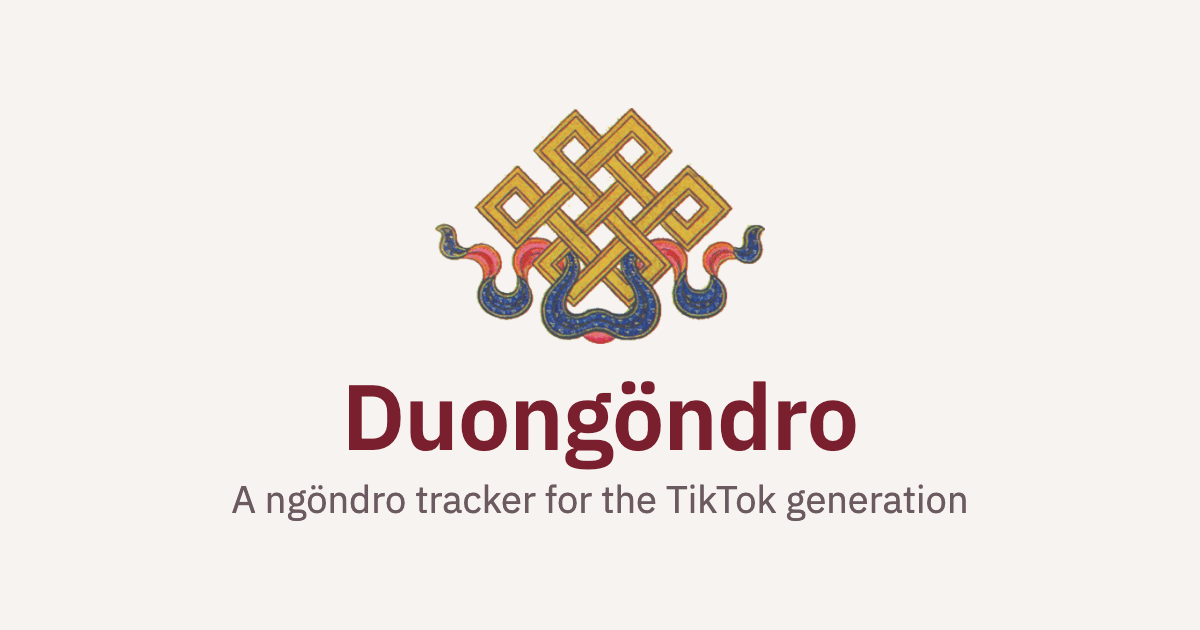
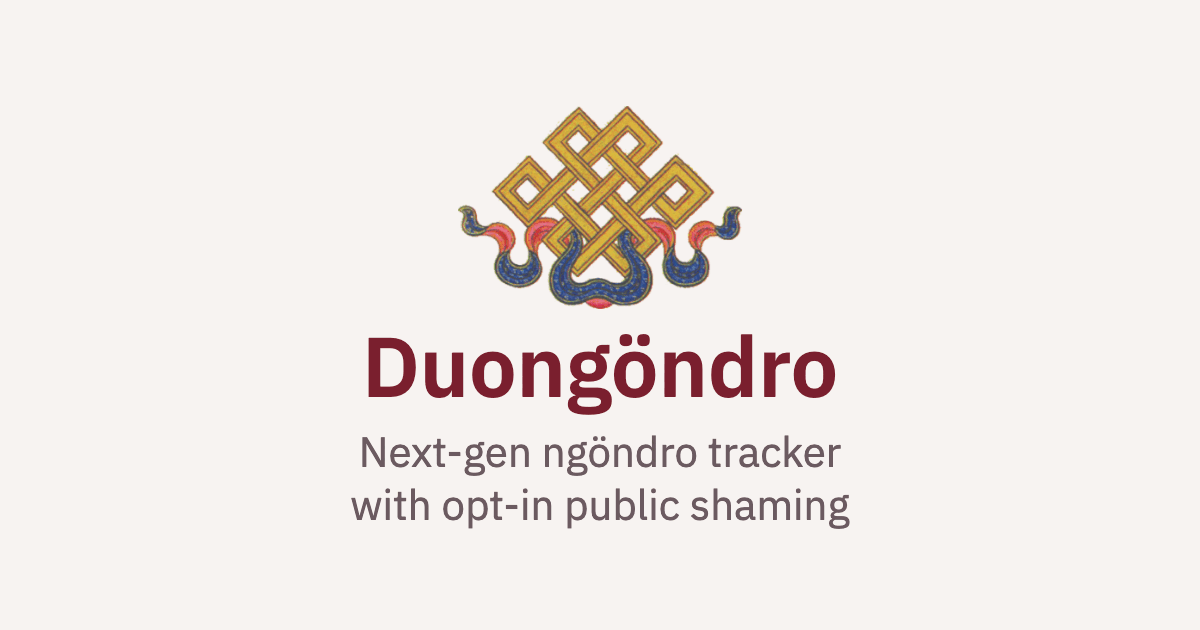
Update web/ to the landing build with the corrected privacy page and opt-in headline (landing f7d9fc5)
Review of this PR found the privacy page understated what the server keeps
in plain form; landing#6 corrects it (times written and synced, the phone's
own session times and deletions, recovery set-up, every sealed key, no
avatar). The build also carries landing#5, the "Next-gen ngöndro tracker
with opt-in public shaming" headline, its page titles and og.png.

Changed region(s): [[0.185, 0.181, 0.8325, 0.8444]]

diff --git a/web/index.html b/web/index.html
@@ -1,18 +1,32 @@
-<!DOCTYPE html><html lang="en"> <head><meta charset="utf-8"><meta name="viewport" content="width=device-width,initial-scale=1"><title>Duongöndro: a ngöndro tracker for the TikTok generation</title><meta name="description" content="A ngöndro tracker for the TikTok generation. Track your meditation practice together with your friends. End-to-end encrypted and fully open source."><meta name="color-scheme" content="light dark"><meta name="referrer" content="no-referrer"><meta property="og:type" content="website"><meta property="og:site_name" content="Duongöndro"><meta property="og:title" content="Duongöndro: a ngöndro tracker for the TikTok generation"><meta property="og:description" content="A ngöndro tracker for the TikTok generation"><meta property="og:url" content="https://duongondro.app/"><meta property="og:image" content="https://duongondro.app/og.png"><meta property="og:image:type" content="image/png"><meta property="og:image:width" content="1200"><meta property="og:image:height" content="630"><meta property="og:image:alt" content="The endless knot emblem, the name Duongöndro and the line “A ngöndro tracker for the TikTok generation”"><meta name="twitter:card" content="summary_large_image"><link rel="icon" href="/favicon-32.png" type="image/png" sizes="32x32"><link rel="apple-touch-icon" href="/apple-touch-icon.png"><link rel="stylesheet" href="/_assets/index.DEv3LqHc.css"></head> <body> <div class="mx-auto max-w-[46rem] px-4"> <!--[--><header class="py-5"><a class="flex items-center gap-3 font-bold text-xl leading-none text-ink no-underline" href="/"><img class="flex-none" src="/_assets/knot-56.CDDOBGr1.png" srcset="/_assets/knot-56.CDDOBGr1.png 1x, /_assets/knot-112.CXCU88NS.png 2x" width="56" height="40" alt=""/> <span>Duongöndro</span></a></header><!--]--> <main>  <section class="pt-6 pb-8"> <h1 class="mb-4 text-[clamp(2rem,7vw,3rem)] font-semibold leading-tight text-accent">A ngöndro tracker for the TikTok generation</h1> <p class="mb-7 text-xl leading-snug text-muted">Track your meditation practice together with your friends. End-to-end encrypted and fully open source.</p> <ul class="mb-2 flex flex-wrap items-start gap-3"> <li> <a class="btn" href="/download/android" data-download="android">Download for Android</a> <p class="note mt-2">Android 9 or newer · version 0.2<span data-download-count></span></p> </li> <!--[--><li><span class="block min-h-12 rounded-md border-2 border-dashed border-line px-5 py-3 font-semibold text-muted" role="note">Coming to the App Store<br/><span class="note">iOS is on TestFlight, by invitation only.</span></span></li><!--]--> </ul> <p class="note">
+<!DOCTYPE html><html lang="en"> <head><meta charset="utf-8"><meta name="viewport" content="width=device-width,initial-scale=1"><title>Duongöndro: next-gen ngöndro tracker with opt-in public shaming</title><meta name="description" content="Next-gen ngöndro tracker with opt-in public shaming. Track your meditation practice together with your friends. Private until you say otherwise, end-to-end encrypted and fully open source."><meta name="color-scheme" content="light dark"><meta name="referrer" content="no-referrer"><meta property="og:type" content="website"><meta property="og:site_name" content="Duongöndro"><meta property="og:title" content="Duongöndro: next-gen ngöndro tracker with opt-in public shaming"><meta property="og:description" content="Next-gen ngöndro tracker with opt-in public shaming"><meta property="og:url" content="https://duongondro.app/"><meta property="og:image" content="https://duongondro.app/og.png"><meta property="og:image:type" content="image/png"><meta property="og:image:width" content="1200"><meta property="og:image:height" content="630"><meta property="og:image:alt" content="The endless knot emblem, the name Duongöndro and the line “Next-gen ngöndro tracker with opt-in public shaming”"><meta name="twitter:card" content="summary_large_image"><link rel="icon" href="/favicon-32.png" type="image/png" sizes="32x32"><link rel="apple-touch-icon" href="/apple-touch-icon.png"><link rel="stylesheet" href="/_assets/index.DEv3LqHc.css"></head> <body> <div class="mx-auto max-w-[46rem] px-4"> <!--[--><header class="py-5"><a class="flex items-center gap-3 font-bold text-xl leading-none text-ink no-underline" href="/"><img class="flex-none" src="/_assets/knot-56.CDDOBGr1.png" srcset="/_assets/knot-56.CDDOBGr1.png 1x, /_assets/knot-112.CXCU88NS.png 2x" width="56" height="40" alt=""/> <span>Duongöndro</span></a></header><!--]--> <main>  <section class="pt-6 pb-8"> <h1 class="mb-4 text-[clamp(2rem,7vw,3rem)] font-semibold leading-tight text-accent">Next-gen ngöndro tracker with opt-in public shaming</h1> <p class="mb-7 text-xl leading-snug text-muted">Track your meditation practice together with your friends. End-to-end encrypted and fully open source.</p> <ul class="mb-2 flex flex-wrap items-start gap-3"> <li> <a class="btn" href="/download/android" data-download="android">Download for Android</a> <p class="note mt-2">Android 9 or newer · version 0.2<span data-download-count></span></p> </li> <!--[--><li><span class="block min-h-12 rounded-md border-2 border-dashed border-line px-5 py-3 font-semibold text-muted" role="note">Coming to the App Store<br/><span class="note">iOS is on TestFlight, by invitation only.</span></span></li><!--]--> </ul> <p class="note">
 The app needs no invitation: on your phone alone it does everything except friends. An online
       account, for friends and for sync between phones, needs an invitation from a member. The
       Android app is an APK from <a href="https://github.com/Duongondro/duongondro-android/releases">our GitHub
       releases</a>, not from Google Play yet.
-</p> </section> <section class="border-t border-line py-8" aria-labelledby="streaks"> <h2 id="streaks" class="mb-3 text-2xl font-semibold leading-tight">Friends see streaks. Nobody sees counts.</h2>  <p class="mb-3">
-A streak is the number of days in a row you practised. You choose, practice by practice,
-      whether friends can see it. Counts, rounds, totals and targets stay on your devices, sealed.
+</p> </section> <section class="border-t border-line py-8" aria-labelledby="optin"> <h2 id="optin" class="mb-3 text-2xl font-semibold leading-tight">What opt-in means</h2>  <p class="mb-3">
+The shaming is a joke about the genre. The part that is not a joke is that you switch it on
+      yourself, one practice at a time.
+</p> <ul class="prose-list"> <li> <strong>Out of the box the app is yours alone.</strong> No account, no sign-in. Nothing
+        leaves the phone.
+</li> <li> <strong>With friends, every streak still starts private.</strong> You switch a streak on per
+        practice. Until you do, a friend sees nothing about that practice.
+</li> <li> <strong>Counts, rounds, totals and targets are never shared.</strong> Not with friends, and
+        not readable by the server. A streak is a number of days.
+</li> <li> <strong>Done-today notes are switched on per friend.</strong> You hear that a friend has
+        practised only if you asked to, for that friend. There is no member directory, no feed and
+        no public profile, so there is no public to be shamed in front of.
+</li> </ul>  </section> <section class="border-t border-line py-8" aria-labelledby="streaks"> <h2 id="streaks" class="mb-3 text-2xl font-semibold leading-tight">Friends see streaks, if you let them. Nobody sees counts.</h2>  <p class="mb-3">
+A streak is the number of days in a row you practised. It is private until you publish it,
+      and you publish it practice by practice, to the friends you have accepted. Counts, rounds,
+      totals and targets stay on your devices, sealed.
 </p> <p class="mb-3">
 A session counts for the day it started, and the streak holds until midnight after the next
       day, in whichever time zone gives you more time. Travel does not break it.
-</p>  </section> <section class="border-t border-line py-8" aria-labelledby="nudges"> <h2 id="nudges" class="mb-3 text-2xl font-semibold leading-tight">Nudges from friends</h2>  <p class="mb-3">
-When a friend finishes a practice, you get a note. When you have not, they can poke you. That
-      is the whole social feature, and it is deliberately small. There is no member directory and
-      no feed.
+</p>  </section> <section class="border-t border-line py-8" aria-labelledby="nudges"> <h2 id="nudges" class="mb-3 text-2xl font-semibold leading-tight">Notes and nudges between friends</h2>  <p class="mb-3">
+For each friend you choose whether you want a note when they finish a practice. When a
+      friend has not practised yet, you can poke them, once a day. That is the whole
+      social feature, and it is deliberately small. There is no member directory, no feed and no
+      public profile.
 </p>  </section> <section class="border-t border-line py-8" aria-labelledby="invite"> <h2 id="invite" class="mb-3 text-2xl font-semibold leading-tight">Accounts by invitation</h2>  <p class="mb-3">
 Anyone can install the app and use it on their phone, with no invitation and no account.
       Online accounts are by invitation: a member shares an invite as a link or a QR code. It works for seven days. Opening it joins
@@ -24,5 +38,5 @@ Got a link but no app? <a href="/i/">The invite page</a> shows the code to paste
 </p>  </section> <section class="border-t border-line py-8" aria-labelledby="offline"> <h2 id="offline" class="mb-3 text-2xl font-semibold leading-tight">Works offline</h2>  <p class="mb-3">
 Every count is written to your phone first and synced later. A retreat with no signal loses
       nothing. You can also use the app on one phone only, with no account.
-</p>  </section> <section class="border-t border-line py-8" aria-labelledby="e2ee"> <h2 id="e2ee" class="mb-3 text-2xl font-semibold leading-tight">Encryption, in plain words</h2>  <div class="grid gap-3 sm:grid-cols-2"> <div class="rounded-md border border-line bg-card p-4 [&_p:last-child]:mb-0"> <h3 class="mb-1 text-[1.0625rem] font-bold">Sealed on your phone</h3>  <p>Sessions, counts, rounds, targets and notes are encrypted before they leave the device. The keys never leave your devices.</p>  </div> <div class="rounded-md border border-line bg-card p-4 [&_p:last-child]:mb-0"> <h3 class="mb-1 text-[1.0625rem] font-bold">The server never sees a count</h3>  <p>It stores sealed blobs it cannot open. It checks sizes and signatures and nothing else.</p>  </div> <div class="rounded-md border border-line bg-card p-4 [&_p:last-child]:mb-0"> <h3 class="mb-1 text-[1.0625rem] font-bold">What it does see</h3>  <p>Your account, display name and avatar, your friends, who invited whom, and the streaks you chose to publish. It also sees when you sync and roughly how much.</p>  </div> <div class="rounded-md border border-line bg-card p-4 [&_p:last-child]:mb-0"> <h3 class="mb-1 text-[1.0625rem] font-bold">No tracking</h3>  <p>No analytics, no trackers, no third-party fonts or scripts. This site makes no requests to anyone else.</p>  </div> </div> <p class="mt-3">Details are in the <a href="/privacy/">draft privacy policy</a>.</p>  </section> <section class="border-t border-line py-8" aria-labelledby="source"> <h2 id="source" class="mb-3 text-2xl font-semibold leading-tight">Open source</h2>  <p class="mb-3">You can read what the apps and the server do, and check the claims above against the code.</p> <ul class="mb-2 flex flex-wrap gap-3"> <li><a class="btn btn-ghost" href="https://github.com/Duongondro/duongondro-ios">iOS app on GitHub</a></li> <li><a class="btn btn-ghost" href="https://github.com/Duongondro/duongondro-android">Android app on GitHub</a></li> <li><a class="btn btn-ghost" href="https://github.com/Duongondro/duongondro-api">Server on GitHub</a></li> </ul>  </section> <script type="module" src="/_assets/index.astro_astro_type_script_index_0_lang.eUalLvJL.js"></script>  </main> <!--[--><footer class="mt-4 border-t border-line pt-6 pb-10 text-[0.9375rem] text-muted"><ul class="mb-3 flex flex-wrap gap-x-5 gap-y-1.5"><!--[--><li><a href="/privacy/">Privacy</a></li><li><a href="https://github.com/Duongondro/duongondro-ios">Source: iOS app</a></li><li><a href="https://github.com/Duongondro/duongondro-android">Source: Android app</a></li><li><a href="https://github.com/Duongondro/duongondro-api">Source: server</a></li><!--]--> <li>Contact: [CONTACT EMAIL]</li></ul> <p class="mb-2">Built by Claude Opus 5.5, Anthropic's AI model: the apps, the server and this website.
+</p>  </section> <section class="border-t border-line py-8" aria-labelledby="e2ee"> <h2 id="e2ee" class="mb-3 text-2xl font-semibold leading-tight">Encryption, in plain words</h2>  <div class="grid gap-3 sm:grid-cols-2"> <div class="rounded-md border border-line bg-card p-4 [&_p:last-child]:mb-0"> <h3 class="mb-1 text-[1.0625rem] font-bold">Sealed on your phone</h3>  <p>Sessions, counts, rounds, targets and notes are encrypted before they leave the device. The keys never leave your devices.</p>  </div> <div class="rounded-md border border-line bg-card p-4 [&_p:last-child]:mb-0"> <h3 class="mb-1 text-[1.0625rem] font-bold">The server never sees a count</h3>  <p>It stores sealed blobs it cannot open. It checks sizes and signatures and nothing else.</p>  </div> <div class="rounded-md border border-line bg-card p-4 [&_p:last-child]:mb-0"> <h3 class="mb-1 text-[1.0625rem] font-bold">What it does see</h3>  <p>Your account, your display name, your friends, who invited whom, and the streaks you chose to publish. It also sees when each session was logged and synced, by your phone's clock and by its own, and how large each sealed blob is.</p>  </div> <div class="rounded-md border border-line bg-card p-4 [&_p:last-child]:mb-0"> <h3 class="mb-1 text-[1.0625rem] font-bold">No tracking</h3>  <p>No analytics, no trackers, no third-party fonts or scripts. This site makes no requests to anyone else.</p>  </div> </div> <p class="mt-3">Details are in the <a href="/privacy/">draft privacy policy</a>.</p>  </section> <section class="border-t border-line py-8" aria-labelledby="source"> <h2 id="source" class="mb-3 text-2xl font-semibold leading-tight">Open source</h2>  <p class="mb-3">You can read what the apps and the server do, and check the claims above against the code.</p> <ul class="mb-2 flex flex-wrap gap-3"> <li><a class="btn btn-ghost" href="https://github.com/Duongondro/duongondro-ios">iOS app on GitHub</a></li> <li><a class="btn btn-ghost" href="https://github.com/Duongondro/duongondro-android">Android app on GitHub</a></li> <li><a class="btn btn-ghost" href="https://github.com/Duongondro/duongondro-api">Server on GitHub</a></li> </ul>  </section> <script type="module" src="/_assets/index.astro_astro_type_script_index_0_lang.eUalLvJL.js"></script>  </main> <!--[--><footer class="mt-4 border-t border-line pt-6 pb-10 text-[0.9375rem] text-muted"><ul class="mb-3 flex flex-wrap gap-x-5 gap-y-1.5"><!--[--><li><a href="/privacy/">Privacy</a></li><li><a href="https://github.com/Duongondro/duongondro-ios">Source: iOS app</a></li><li><a href="https://github.com/Duongondro/duongondro-android">Source: Android app</a></li><li><a href="https://github.com/Duongondro/duongondro-api">Source: server</a></li><!--]--> <li>Contact: [CONTACT EMAIL]</li></ul> <p class="mb-2">Built by Claude Opus 5.5, Anthropic's AI model: the apps, the server and this website.
     Maintained by Karol Moroz.</p> <p>Not affiliated with any organisation. This website is licensed under AGPL-3.0.</p></footer><!--]--> </div> </body></html>

diff --git a/web/privacy/index.html b/web/privacy/index.html
@@ -1,4 +1,4 @@
-<!DOCTYPE html><html lang="en"> <head><meta charset="utf-8"><meta name="viewport" content="width=device-width,initial-scale=1"><title>Privacy policy (draft) | Duongöndro</title><meta name="description" content="Draft privacy policy for Duongöndro. Not yet in force."><meta name="color-scheme" content="light dark"><meta name="referrer" content="no-referrer"><meta property="og:type" content="website"><meta property="og:site_name" content="Duongöndro"><meta property="og:title" content="Privacy policy (draft) | Duongöndro"><meta property="og:description" content="A ngöndro tracker for the TikTok generation"><meta property="og:url" content="https://duongondro.app/privacy/"><meta property="og:image" content="https://duongondro.app/og.png"><meta property="og:image:type" content="image/png"><meta property="og:image:width" content="1200"><meta property="og:image:height" content="630"><meta property="og:image:alt" content="The endless knot emblem, the name Duongöndro and the line “A ngöndro tracker for the TikTok generation”"><meta name="twitter:card" content="summary_large_image"><link rel="icon" href="/favicon-32.png" type="image/png" sizes="32x32"><link rel="apple-touch-icon" href="/apple-touch-icon.png"><link rel="stylesheet" href="/_assets/index.DEv3LqHc.css"></head> <body> <div class="mx-auto max-w-[46rem] px-4"> <!--[--><header class="py-5"><a class="flex items-center gap-3 font-bold text-xl leading-none text-ink no-underline" href="/"><img class="flex-none" src="/_assets/knot-56.CDDOBGr1.png" srcset="/_assets/knot-56.CDDOBGr1.png 1x, /_assets/knot-112.CXCU88NS.png 2x" width="56" height="40" alt=""/> <span>Duongöndro</span></a></header><!--]--> <main>  <section class="pt-6 pb-8"> <p class="mb-3"> <span class="inline-block rounded-sm border border-gold px-2 py-0.5 text-sm font-semibold text-gold-text">Draft — not yet in force</span> </p> <h1 class="mb-4 text-[clamp(2rem,7vw,3rem)] font-semibold leading-tight text-accent">Privacy policy</h1> <p class="mb-3 text-xl leading-snug">
+<!DOCTYPE html><html lang="en"> <head><meta charset="utf-8"><meta name="viewport" content="width=device-width,initial-scale=1"><title>Privacy policy (draft) | Duongöndro</title><meta name="description" content="Draft privacy policy for Duongöndro. Not yet in force."><meta name="color-scheme" content="light dark"><meta name="referrer" content="no-referrer"><meta property="og:type" content="website"><meta property="og:site_name" content="Duongöndro"><meta property="og:title" content="Privacy policy (draft) | Duongöndro"><meta property="og:description" content="Next-gen ngöndro tracker with opt-in public shaming"><meta property="og:url" content="https://duongondro.app/privacy/"><meta property="og:image" content="https://duongondro.app/og.png"><meta property="og:image:type" content="image/png"><meta property="og:image:width" content="1200"><meta property="og:image:height" content="630"><meta property="og:image:alt" content="The endless knot emblem, the name Duongöndro and the line “Next-gen ngöndro tracker with opt-in public shaming”"><meta name="twitter:card" content="summary_large_image"><link rel="icon" href="/favicon-32.png" type="image/png" sizes="32x32"><link rel="apple-touch-icon" href="/apple-touch-icon.png"><link rel="stylesheet" href="/_assets/index.DEv3LqHc.css"></head> <body> <div class="mx-auto max-w-[46rem] px-4"> <!--[--><header class="py-5"><a class="flex items-center gap-3 font-bold text-xl leading-none text-ink no-underline" href="/"><img class="flex-none" src="/_assets/knot-56.CDDOBGr1.png" srcset="/_assets/knot-56.CDDOBGr1.png 1x, /_assets/knot-112.CXCU88NS.png 2x" width="56" height="40" alt=""/> <span>Duongöndro</span></a></header><!--]--> <main>  <section class="pt-6 pb-8"> <p class="mb-3"> <span class="inline-block rounded-sm border border-gold px-2 py-0.5 text-sm font-semibold text-gold-text">Draft — not yet in force</span> </p> <h1 class="mb-4 text-[clamp(2rem,7vw,3rem)] font-semibold leading-tight text-accent">Privacy policy</h1> <p class="mb-3 text-xl leading-snug">
 This draft says what Duongöndro stores, where, and why. It has not been reviewed by a lawyer
       and does not apply until it is published without this banner.
 </p> <p class="note">Controller: [CONTROLLER NAME AND ADDRESS]. Contact: [CONTACT EMAIL].</p> </section> <section class="border-t border-line py-8" aria-labelledby="sealed"> <h2 id="sealed" class="mb-3 text-2xl font-semibold leading-tight">What is end-to-end encrypted</h2>  <p class="mb-3">These are sealed on your device before they are uploaded. The server stores them and cannot read them:</p> <ul class="prose-list"> <li>practice sessions, including the day, the duration and your notes</li> <li>counts, rounds and totals</li> <li>targets</li> <li>imported streak seeds</li> </ul> <p class="mb-3">
@@ -8,11 +8,11 @@ The keys that open them stay on your devices. The server never receives a plaint
 The server has to read these to do its job, for example to show your name to your friends
       or to send a notification. It keeps them encrypted in its database, with a key held outside
       the database, so a copy of the database or a backup does not reveal them:
-</p> <ul class="prose-list"> <li>your display name and avatar, and your grammatical gender if you give it</li> <li>your e-mail address, if you sign in with one; an account with only a passkey has none</li> <li>your username, if you chose one; it names your passkey and friends do not see it</li> <li>your streaks, only for practices where you chose to publish them</li> <li>the public keys of your devices</li> <li>push notification tokens</li> <li>the text of any report you send</li> </ul> <p class="mb-3">
+</p> <ul class="prose-list"> <li>your display name, and your grammatical gender if you give it</li> <li>your e-mail address, if you sign in with one; an account with only a passkey has none</li> <li>your username, if you chose one; it names your passkey and friends do not see it</li> <li>the Apple or Google account your sign-in is linked to</li> <li>your streaks, only for practices where you chose to publish them</li> <li>the public keys of your account, your devices and your passkeys</li> <li>push notification tokens</li> <li>the text of any report you send</li> </ul> <p class="mb-3">
 Unlike your practice data, these can be read by the running server while it works with them.
-</p>  </section> <section class="border-t border-line py-8" aria-labelledby="plain"> <h2 id="plain" class="mb-3 text-2xl font-semibold leading-tight">What the server stores in plain form</h2>  <ul class="prose-list"> <li>that your account exists, as a random number</li> <li>which accounts are friends, and who invited, blocked, poked or reported whom, as links between those numbers</li> <li>which kinds of sign-in, notification service and device key storage you use, for example a passkey on an Android phone</li> <li>for a streak you publish, when it runs out, so the server can remind you in time, and how many times it has been updated</li> <li>when you upload, and how large each sealed blob is</li> </ul> <p class="mb-3">
-The last item is a real limit. Upload times and sizes can suggest when you practise, even for
-      a private streak.
+</p>  </section> <section class="border-t border-line py-8" aria-labelledby="plain"> <h2 id="plain" class="mb-3 text-2xl font-semibold leading-tight">What the server stores in plain form</h2>  <ul class="prose-list"> <li>that your account exists, as a random number</li> <li>which accounts are friends, and who invited, blocked, poked or reported whom, as links between those numbers</li> <li>for each friend, whether you asked to hear when they practise</li> <li>whether and when you set up a recovery key</li> <li>which kinds of sign-in, notification service and device key storage you use, for example a passkey on an Android phone</li> <li>for a streak you publish, when it runs out, so the server can remind you in time, and how many times it has been updated</li> <li>when each thing was written and last changed, and how large each sealed blob is; for a practice session, also when your phone logged it and last changed or deleted it, by the phone's clock, even if it synced later</li> </ul> <p class="mb-3">
+The last item is a real limit. These times and sizes can show when you practise, even for a
+      private streak.
 </p> <p class="mb-3">Cover photos for practices never leave your phone.</p>  </section> <section class="border-t border-line py-8" aria-labelledby="belief"> <h2 id="belief" class="mb-3 text-2xl font-semibold leading-tight">Religious belief and consent</h2>  <p class="mb-3">
 Being a member of a Buddhist practice app says something about your religious belief. Under
       Article 9 of the GDPR that is special-category data. We ask for your explicit consent before

diff --git a/web/i/index.html b/web/i/index.html
@@ -1,4 +1,4 @@
-<!DOCTYPE html><html lang="en"> <head><meta charset="utf-8"><meta name="viewport" content="width=device-width,initial-scale=1"><title>You have been invited to Duongöndro | Duongöndro</title><meta name="description" content="Open this link in the Duongöndro app, or copy the code from this page."><meta name="color-scheme" content="light dark"><meta name="referrer" content="no-referrer"><meta name="robots" content="noindex,nofollow"><meta property="og:type" content="website"><meta property="og:site_name" content="Duongöndro"><meta property="og:title" content="You have been invited to Duongöndro | Duongöndro"><meta property="og:description" content="A ngöndro tracker for the TikTok generation"><meta property="og:url" content="https://duongondro.app/i/"><meta property="og:image" content="https://duongondro.app/og.png"><meta property="og:image:type" content="image/png"><meta property="og:image:width" content="1200"><meta property="og:image:height" content="630"><meta property="og:image:alt" content="The endless knot emblem, the name Duongöndro and the line “A ngöndro tracker for the TikTok generation”"><meta name="twitter:card" content="summary_large_image"><link rel="icon" href="/favicon-32.png" type="image/png" sizes="32x32"><link rel="apple-touch-icon" href="/apple-touch-icon.png"><link rel="stylesheet" href="/_assets/index.DEv3LqHc.css"></head> <body> <div class="mx-auto max-w-[46rem] px-4"> <!--[--><header class="py-5"><a class="flex items-center gap-3 font-bold text-xl leading-none text-ink no-underline" href="/"><img class="flex-none" src="/_assets/knot-56.CDDOBGr1.png" srcset="/_assets/knot-56.CDDOBGr1.png 1x, /_assets/knot-112.CXCU88NS.png 2x" width="56" height="40" alt=""/> <span>Duongöndro</span></a></header><!--]--> <main>  <!--[--><section class="pt-6 pb-8" data-link-kind="invite"><h1 class="mb-4 text-[clamp(2rem,7vw,3rem)] font-semibold leading-tight text-accent">You have been invited to Duongöndro</h1> <p class="mb-1 text-xl leading-snug">Duongöndro is a practice tracker for friends. This is your invite code.</p> <noscript><p class="warn">This page needs JavaScript to read the code from the link. Without it, copy the part of the
+<!DOCTYPE html><html lang="en"> <head><meta charset="utf-8"><meta name="viewport" content="width=device-width,initial-scale=1"><title>You have been invited to Duongöndro | Duongöndro</title><meta name="description" content="Open this link in the Duongöndro app, or copy the code from this page."><meta name="color-scheme" content="light dark"><meta name="referrer" content="no-referrer"><meta name="robots" content="noindex,nofollow"><meta property="og:type" content="website"><meta property="og:site_name" content="Duongöndro"><meta property="og:title" content="You have been invited to Duongöndro | Duongöndro"><meta property="og:description" content="Next-gen ngöndro tracker with opt-in public shaming"><meta property="og:url" content="https://duongondro.app/i/"><meta property="og:image" content="https://duongondro.app/og.png"><meta property="og:image:type" content="image/png"><meta property="og:image:width" content="1200"><meta property="og:image:height" content="630"><meta property="og:image:alt" content="The endless knot emblem, the name Duongöndro and the line “Next-gen ngöndro tracker with opt-in public shaming”"><meta name="twitter:card" content="summary_large_image"><link rel="icon" href="/favicon-32.png" type="image/png" sizes="32x32"><link rel="apple-touch-icon" href="/apple-touch-icon.png"><link rel="stylesheet" href="/_assets/index.DEv3LqHc.css"></head> <body> <div class="mx-auto max-w-[46rem] px-4"> <!--[--><header class="py-5"><a class="flex items-center gap-3 font-bold text-xl leading-none text-ink no-underline" href="/"><img class="flex-none" src="/_assets/knot-56.CDDOBGr1.png" srcset="/_assets/knot-56.CDDOBGr1.png 1x, /_assets/knot-112.CXCU88NS.png 2x" width="56" height="40" alt=""/> <span>Duongöndro</span></a></header><!--]--> <main>  <!--[--><section class="pt-6 pb-8" data-link-kind="invite"><h1 class="mb-4 text-[clamp(2rem,7vw,3rem)] font-semibold leading-tight text-accent">You have been invited to Duongöndro</h1> <p class="mb-1 text-xl leading-snug">Duongöndro is a practice tracker for friends. This is your invite code.</p> <noscript><p class="warn">This page needs JavaScript to read the code from the link. Without it, copy the part of the
       address after <b>/i/</b>, replacing the <b>#</b> with a dash.</p></noscript> <div id="ok" hidden=""><code id="code" tabindex="0" class="my-4 block select-all break-all rounded-md border-2 border-accent bg-card px-4 py-5 font-mono text-[clamp(1.25rem,6.2vw,1.9rem)] font-semibold leading-snug tracking-wide"></code> <p class="mb-3"><button class="btn" type="button" id="copy">Copy the code</button></p> <p id="status" class="mb-3 min-h-[1.6em] font-semibold text-gold-text" role="status" aria-live="polite"></p> <h2 class="mb-3 text-2xl font-semibold leading-tight">What to do</h2> <ol class="steps"><li>Install Duongöndro: <a href="/download/android">download it for Android</a>. On iPhone it is on TestFlight, by invitation only.</li> <li>Open it and choose Get started. After the questions about your practice, choose <b>Make an online account</b>.</li> <li>Paste the code.</li></ol> <p class="mb-3">Invite links expire after 7 days. If it no longer works, ask the sender for a new one.</p> <p class="note">This code is in the part of the address after the #. Your browser does not send that part to
       the server, and this page does not either.</p></div> <div id="bad" hidden=""><p class="warn"><b>This link is incomplete.</b> It should look like <code>duongondro.app/i/7K2MQ9XA#H4N8R2CJ6TPW3ZQF</code>. Some messaging apps cut off
       everything after the #. Ask the sender for the link again, or for the code itself.</p> <p>If you were given a code, install the app, choose <b>Make an online account</b> when it offers one and paste it there.</p></div></section><!--]--> <script type="module" src="/_assets/index.astro_astro_type_script_index_0_lang.BNAiQPdN.js"></script>  </main> <!--[--><footer class="mt-4 border-t border-line pt-6 pb-10 text-[0.9375rem] text-muted"><ul class="mb-3 flex flex-wrap gap-x-5 gap-y-1.5"><!--[--><li><a href="/privacy/">Privacy</a></li><li><a href="https://github.com/Duongondro/duongondro-ios">Source: iOS app</a></li><li><a href="https://github.com/Duongondro/duongondro-android">Source: Android app</a></li><li><a href="https://github.com/Duongondro/duongondro-api">Source: server</a></li><!--]--> <li>Contact: [CONTACT EMAIL]</li></ul> <p class="mb-2">Built by Claude Opus 5.5, Anthropic's AI model: the apps, the server and this website.

diff --git a/web/f/index.html b/web/f/index.html
@@ -1,4 +1,4 @@
-<!DOCTYPE html><html lang="en"> <head><meta charset="utf-8"><meta name="viewport" content="width=device-width,initial-scale=1"><title>Add a friend on Duongöndro | Duongöndro</title><meta name="description" content="Open this link in the Duongöndro app, or copy the code from this page."><meta name="color-scheme" content="light dark"><meta name="referrer" content="no-referrer"><meta name="robots" content="noindex,nofollow"><meta property="og:type" content="website"><meta property="og:site_name" content="Duongöndro"><meta property="og:title" content="Add a friend on Duongöndro | Duongöndro"><meta property="og:description" content="A ngöndro tracker for the TikTok generation"><meta property="og:url" content="https://duongondro.app/f/"><meta property="og:image" content="https://duongondro.app/og.png"><meta property="og:image:type" content="image/png"><meta property="og:image:width" content="1200"><meta property="og:image:height" content="630"><meta property="og:image:alt" content="The endless knot emblem, the name Duongöndro and the line “A ngöndro tracker for the TikTok generation”"><meta name="twitter:card" content="summary_large_image"><link rel="icon" href="/favicon-32.png" type="image/png" sizes="32x32"><link rel="apple-touch-icon" href="/apple-touch-icon.png"><link rel="stylesheet" href="/_assets/index.DEv3LqHc.css"></head> <body> <div class="mx-auto max-w-[46rem] px-4"> <!--[--><header class="py-5"><a class="flex items-center gap-3 font-bold text-xl leading-none text-ink no-underline" href="/"><img class="flex-none" src="/_assets/knot-56.CDDOBGr1.png" srcset="/_assets/knot-56.CDDOBGr1.png 1x, /_assets/knot-112.CXCU88NS.png 2x" width="56" height="40" alt=""/> <span>Duongöndro</span></a></header><!--]--> <main>  <!--[--><section class="pt-6 pb-8" data-link-kind="friend"><h1 class="mb-4 text-[clamp(2rem,7vw,3rem)] font-semibold leading-tight text-accent">Add a friend on Duongöndro</h1> <p class="mb-1 text-xl leading-snug">Someone wants to add you as a friend. This is their add-friend code. You need the app installed, and an account in it.</p> <noscript><p class="warn">This page needs JavaScript to read the code from the link. Without it, copy the part of the
+<!DOCTYPE html><html lang="en"> <head><meta charset="utf-8"><meta name="viewport" content="width=device-width,initial-scale=1"><title>Add a friend on Duongöndro | Duongöndro</title><meta name="description" content="Open this link in the Duongöndro app, or copy the code from this page."><meta name="color-scheme" content="light dark"><meta name="referrer" content="no-referrer"><meta name="robots" content="noindex,nofollow"><meta property="og:type" content="website"><meta property="og:site_name" content="Duongöndro"><meta property="og:title" content="Add a friend on Duongöndro | Duongöndro"><meta property="og:description" content="Next-gen ngöndro tracker with opt-in public shaming"><meta property="og:url" content="https://duongondro.app/f/"><meta property="og:image" content="https://duongondro.app/og.png"><meta property="og:image:type" content="image/png"><meta property="og:image:width" content="1200"><meta property="og:image:height" content="630"><meta property="og:image:alt" content="The endless knot emblem, the name Duongöndro and the line “Next-gen ngöndro tracker with opt-in public shaming”"><meta name="twitter:card" content="summary_large_image"><link rel="icon" href="/favicon-32.png" type="image/png" sizes="32x32"><link rel="apple-touch-icon" href="/apple-touch-icon.png"><link rel="stylesheet" href="/_assets/index.DEv3LqHc.css"></head> <body> <div class="mx-auto max-w-[46rem] px-4"> <!--[--><header class="py-5"><a class="flex items-center gap-3 font-bold text-xl leading-none text-ink no-underline" href="/"><img class="flex-none" src="/_assets/knot-56.CDDOBGr1.png" srcset="/_assets/knot-56.CDDOBGr1.png 1x, /_assets/knot-112.CXCU88NS.png 2x" width="56" height="40" alt=""/> <span>Duongöndro</span></a></header><!--]--> <main>  <!--[--><section class="pt-6 pb-8" data-link-kind="friend"><h1 class="mb-4 text-[clamp(2rem,7vw,3rem)] font-semibold leading-tight text-accent">Add a friend on Duongöndro</h1> <p class="mb-1 text-xl leading-snug">Someone wants to add you as a friend. This is their add-friend code. You need the app installed, and an account in it.</p> <noscript><p class="warn">This page needs JavaScript to read the code from the link. Without it, copy the part of the
       address after <b>/f/</b>, replacing the <b>#</b> with a dash.</p></noscript> <div id="ok" hidden=""><code id="code" tabindex="0" class="my-4 block select-all break-all rounded-md border-2 border-accent bg-card px-4 py-5 font-mono text-[clamp(1.25rem,6.2vw,1.9rem)] font-semibold leading-snug tracking-wide"></code> <p class="mb-3"><button class="btn" type="button" id="copy">Copy the code</button></p> <p id="status" class="mb-3 min-h-[1.6em] font-semibold text-gold-text" role="status" aria-live="polite"></p> <h2 class="mb-3 text-2xl font-semibold leading-tight">What to do</h2> <ol class="steps"><li>Install Duongöndro: <a href="/download/android">download it for Android</a>. On iPhone it is on TestFlight, by invitation only.</li> <li>Open it and choose <b>Add friend</b>.</li> <li>Paste the code.</li></ol> <p class="mb-3">Add-friend links expire after 10 minutes. If it no longer works, ask your friend to show a new one.</p> <p class="note">This code is in the part of the address after the #. Your browser does not send that part to
       the server, and this page does not either.</p></div> <div id="bad" hidden=""><p class="warn"><b>This link is incomplete.</b> It should look like <code>duongondro.app/f/7K2MQ9XA#H4N8R2CJ6TPW3ZQF</code>. Some messaging apps cut off
       everything after the #. Ask the sender for the link again, or for the code itself.</p> <p>If you were given a code, install the app, choose <b>Add friend</b> when it offers one and paste it there.</p></div></section><!--]--> <script type="module" src="/_assets/index.astro_astro_type_script_index_0_lang.DKZGsVGn.js"></script>  </main> <!--[--><footer class="mt-4 border-t border-line pt-6 pb-10 text-[0.9375rem] text-muted"><ul class="mb-3 flex flex-wrap gap-x-5 gap-y-1.5"><!--[--><li><a href="/privacy/">Privacy</a></li><li><a href="https://github.com/Duongondro/duongondro-ios">Source: iOS app</a></li><li><a href="https://github.com/Duongondro/duongondro-android">Source: Android app</a></li><li><a href="https://github.com/Duongondro/duongondro-api">Source: server</a></li><!--]--> <li>Contact: [CONTACT EMAIL]</li></ul> <p class="mb-2">Built by Claude Opus 5.5, Anthropic's AI model: the apps, the server and this website.

diff --git a/web/m/index.html b/web/m/index.html
@@ -1,4 +1,4 @@
-<!DOCTYPE html><html lang="en"> <head><meta charset="utf-8"><meta name="viewport" content="width=device-width,initial-scale=1"><title>Sign in to Duongöndro | Duongöndro</title><meta name="description" content="Open this sign-in link on the phone where you asked for it."><meta name="color-scheme" content="light dark"><meta name="referrer" content="no-referrer"><meta name="robots" content="noindex,nofollow"><meta property="og:type" content="website"><meta property="og:site_name" content="Duongöndro"><meta property="og:title" content="Sign in to Duongöndro | Duongöndro"><meta property="og:description" content="A ngöndro tracker for the TikTok generation"><meta property="og:url" content="https://duongondro.app/m/"><meta property="og:image" content="https://duongondro.app/og.png"><meta property="og:image:type" content="image/png"><meta property="og:image:width" content="1200"><meta property="og:image:height" content="630"><meta property="og:image:alt" content="The endless knot emblem, the name Duongöndro and the line “A ngöndro tracker for the TikTok generation”"><meta name="twitter:card" content="summary_large_image"><link rel="icon" href="/favicon-32.png" type="image/png" sizes="32x32"><link rel="apple-touch-icon" href="/apple-touch-icon.png"><link rel="stylesheet" href="/_assets/index.DEv3LqHc.css"></head> <body> <div class="mx-auto max-w-[46rem] px-4"> <!--[--><header class="py-5"><a class="flex items-center gap-3 font-bold text-xl leading-none text-ink no-underline" href="/"><img class="flex-none" src="/_assets/knot-56.CDDOBGr1.png" srcset="/_assets/knot-56.CDDOBGr1.png 1x, /_assets/knot-112.CXCU88NS.png 2x" width="56" height="40" alt=""/> <span>Duongöndro</span></a></header><!--]--> <main>  <section class="pt-6 pb-8"> <h1 class="mb-4 text-[clamp(2rem,7vw,3rem)] font-semibold leading-tight text-accent">Open this link on your phone</h1> <p class="mb-4 text-xl leading-snug">
+<!DOCTYPE html><html lang="en"> <head><meta charset="utf-8"><meta name="viewport" content="width=device-width,initial-scale=1"><title>Sign in to Duongöndro | Duongöndro</title><meta name="description" content="Open this sign-in link on the phone where you asked for it."><meta name="color-scheme" content="light dark"><meta name="referrer" content="no-referrer"><meta name="robots" content="noindex,nofollow"><meta property="og:type" content="website"><meta property="og:site_name" content="Duongöndro"><meta property="og:title" content="Sign in to Duongöndro | Duongöndro"><meta property="og:description" content="Next-gen ngöndro tracker with opt-in public shaming"><meta property="og:url" content="https://duongondro.app/m/"><meta property="og:image" content="https://duongondro.app/og.png"><meta property="og:image:type" content="image/png"><meta property="og:image:width" content="1200"><meta property="og:image:height" content="630"><meta property="og:image:alt" content="The endless knot emblem, the name Duongöndro and the line “Next-gen ngöndro tracker with opt-in public shaming”"><meta name="twitter:card" content="summary_large_image"><link rel="icon" href="/favicon-32.png" type="image/png" sizes="32x32"><link rel="apple-touch-icon" href="/apple-touch-icon.png"><link rel="stylesheet" href="/_assets/index.DEv3LqHc.css"></head> <body> <div class="mx-auto max-w-[46rem] px-4"> <!--[--><header class="py-5"><a class="flex items-center gap-3 font-bold text-xl leading-none text-ink no-underline" href="/"><img class="flex-none" src="/_assets/knot-56.CDDOBGr1.png" srcset="/_assets/knot-56.CDDOBGr1.png 1x, /_assets/knot-112.CXCU88NS.png 2x" width="56" height="40" alt=""/> <span>Duongöndro</span></a></header><!--]--> <main>  <section class="pt-6 pb-8"> <h1 class="mb-4 text-[clamp(2rem,7vw,3rem)] font-semibold leading-tight text-accent">Open this link on your phone</h1> <p class="mb-4 text-xl leading-snug">
 This sign-in link works only in the Duongöndro app. Open the email on the phone where you
       asked for it and tap the link there.
 </p> <h2 class="mb-3 text-2xl font-semibold leading-tight">If the app opened this page instead</h2> <ol class="steps"> <li>Check that Duongöndro is installed on this phone.</li> <li>
